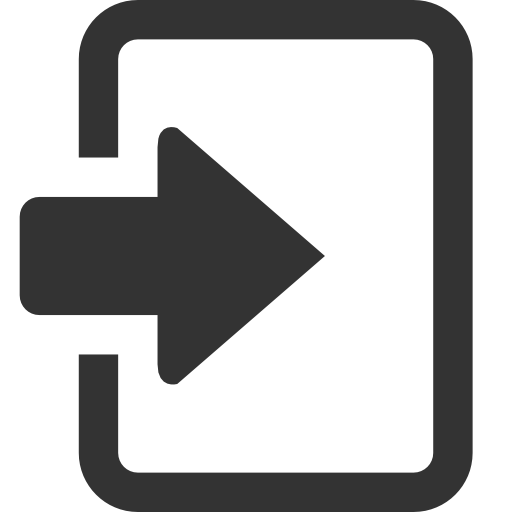
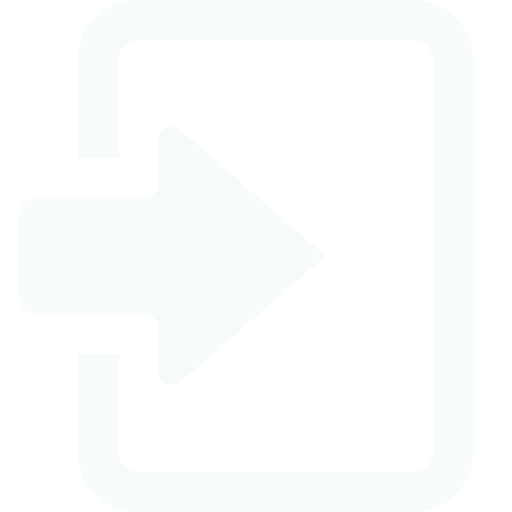
imagen session en blanco

diff --git a/public_html/index.php b/public_html/index.php
@@ -28,13 +28,15 @@ session_start();
         <a href="controlador/logout.php"></a>
         <header>                         
             <div id="logo"><img src="img/logo.png">ZASCAR Enterprises
-                <a  href="vista/login.php"><img class="login-img" src="img/loginbutton.png" alt=""/></a>
+                
                 <?php
                 if (isset($_SESSION['loggedin']) && $_SESSION['loggedin'] == true) {
+                    echo "<a  href='controlador/logout.php'><img class='login-img' src='img/logoutbutton.png'/></a>";
                     echo "<p>";
                     echo ($_SESSION['username']);
-                    echo "<a href='controlador/logout.php'> Cerrar sesion</a></p>";
+                    echo "</p>";
                 } else {
+                    echo"<a  href='vista/login.php'><img class='login-img' src='img/loginbutton.png'/></a>";
                     echo "<p>Iniciar sesión</p>";
                     
                 }
